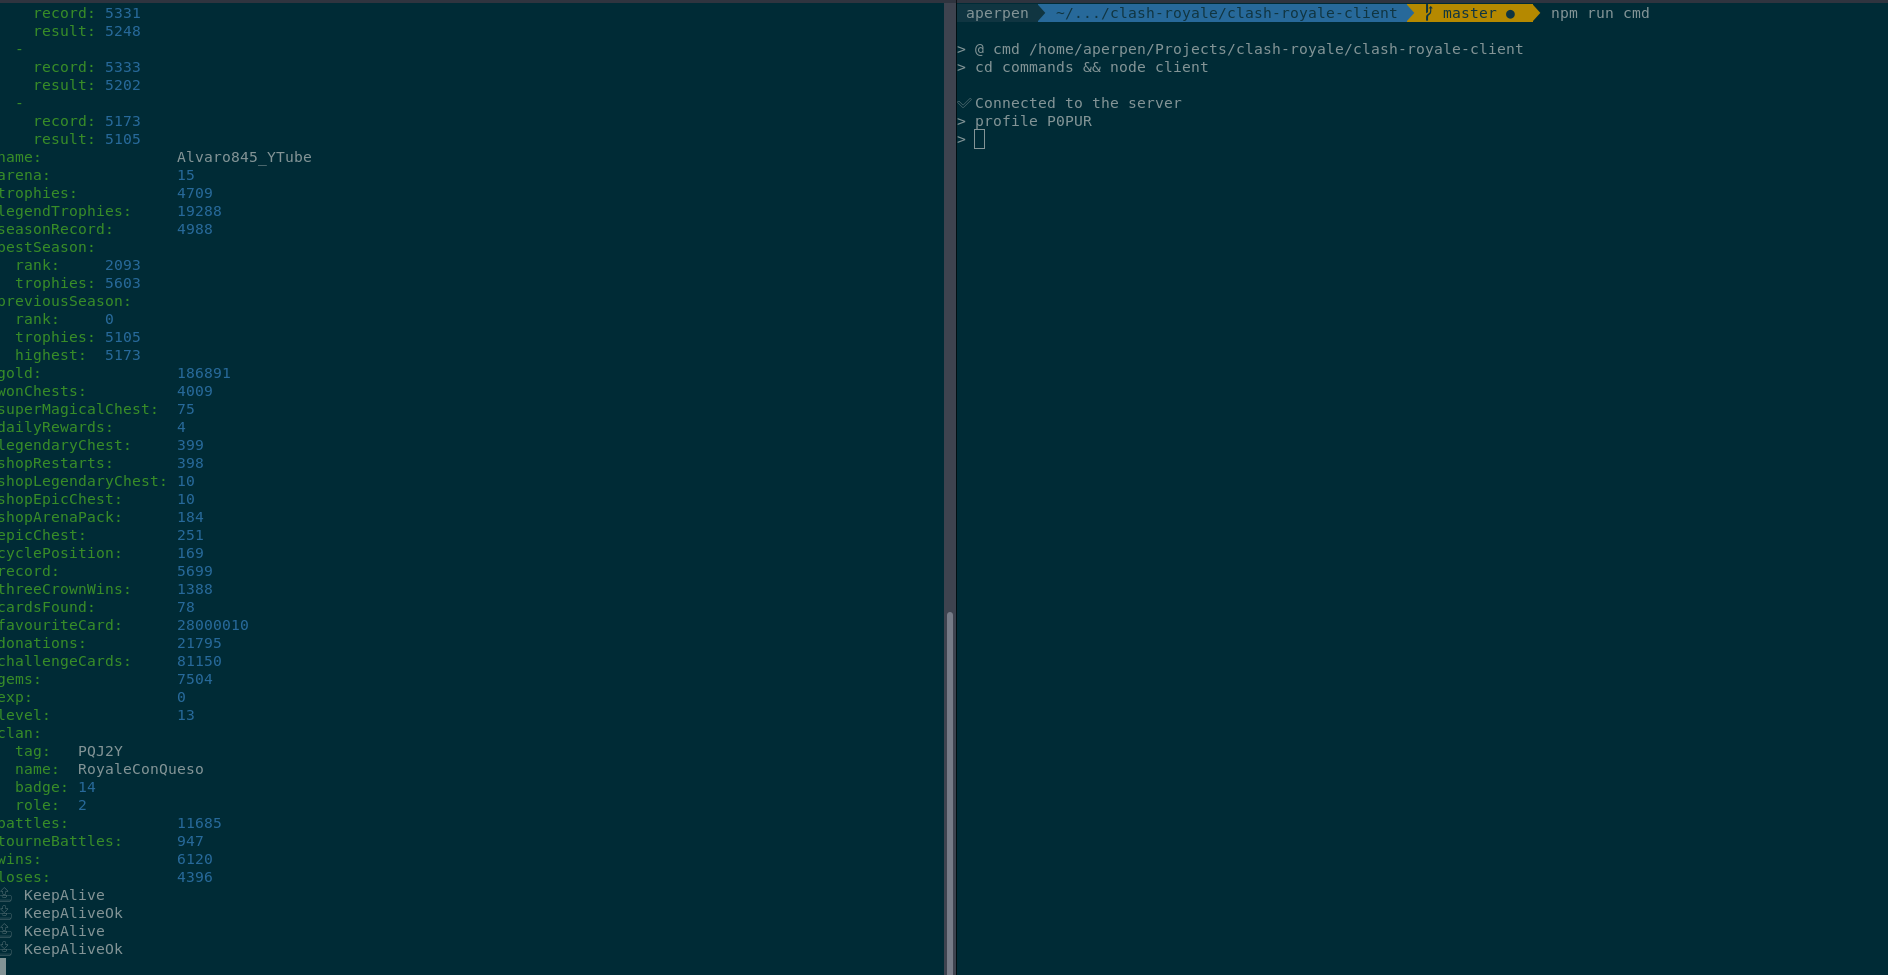
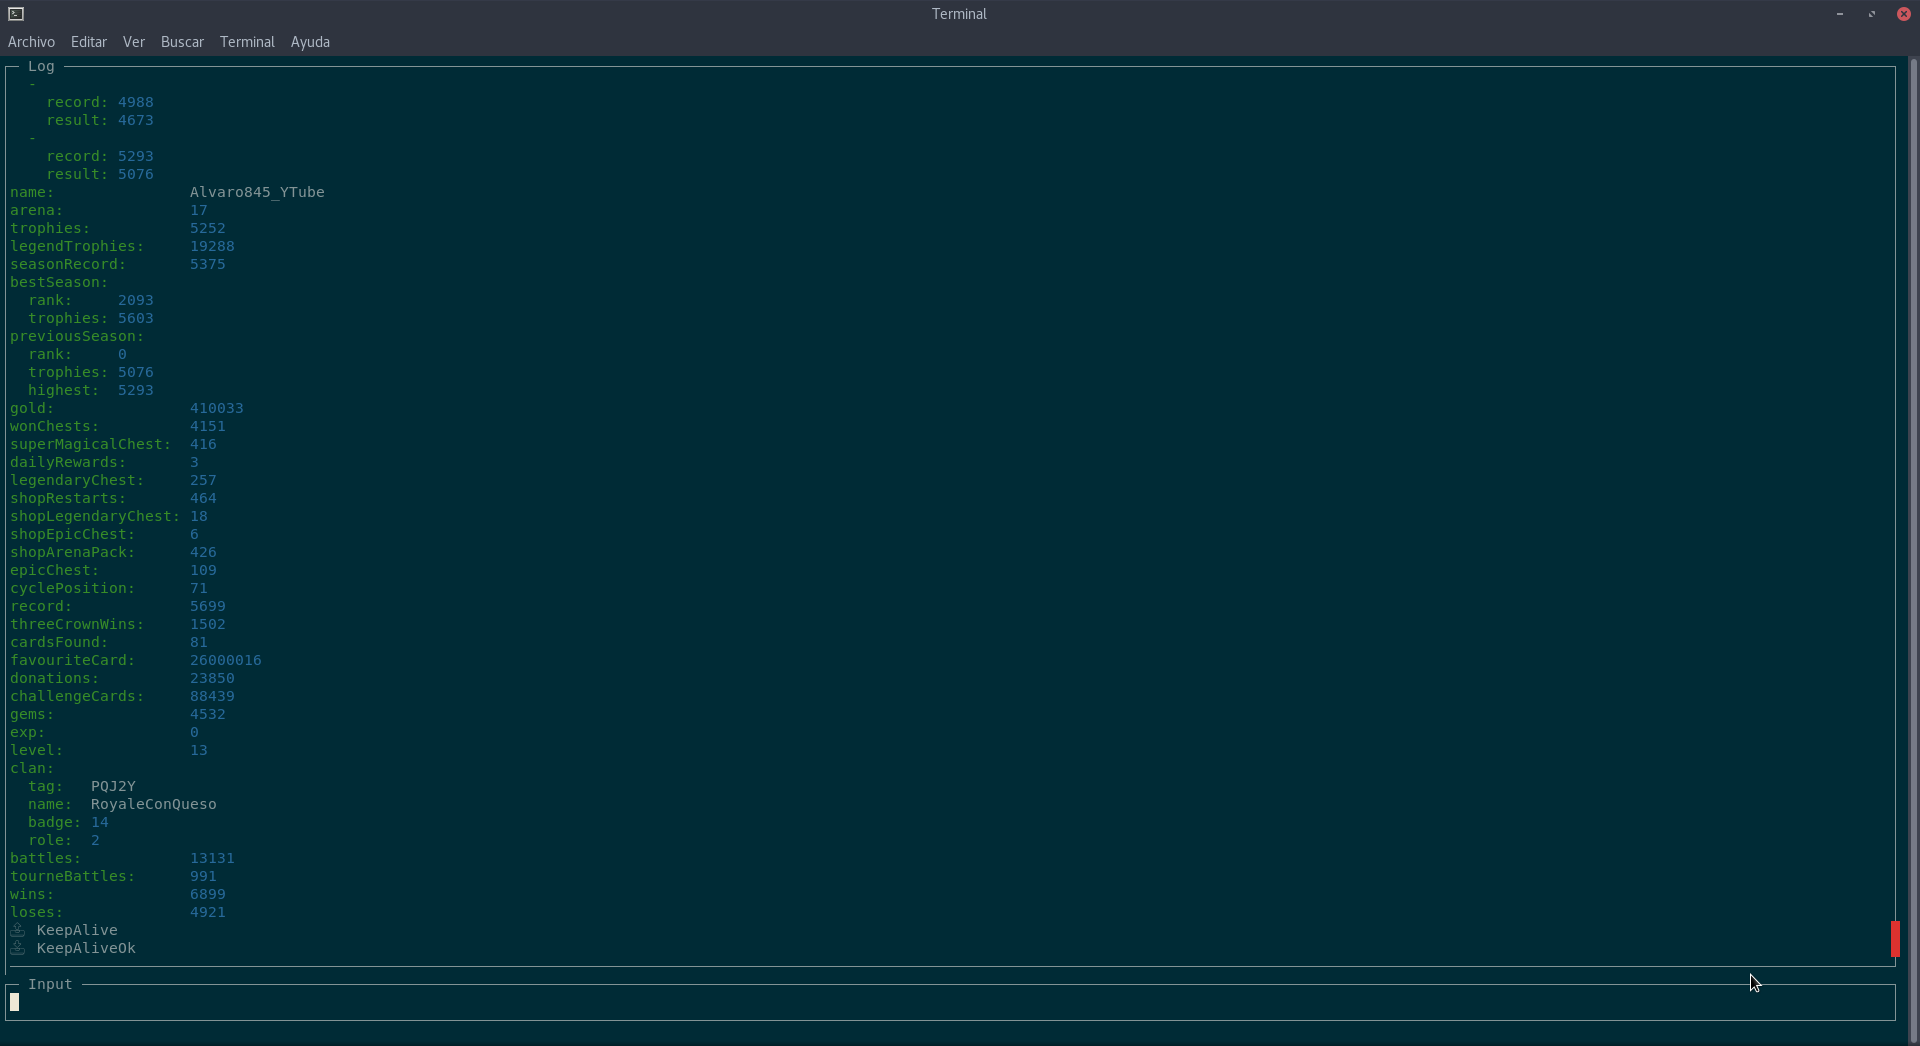
UI, Merge cmd+client

diff --git a/utils/console.js b/utils/console.js
@@ -1,0 +1,59 @@
+const Blessed = require('blessed')
+const runCmd = require('../commands/index').run
+
+let screen = null
+let output = null
+module.exports.init = () => {
+    screen = Blessed.screen({
+        fullUnicode: true
+    })
+    output = Blessed.log({
+        top: 0,
+        left: 0,
+        height: '100%-3',
+        width: '100%',
+        keys: true,
+        mouse: true,
+        scrollable: true,
+        scrollbar: {
+            ch: ' ',
+            bg: 'red'
+        },
+        border: {
+            type: 'line'
+        },
+        label: ' Log '
+    })
+    let input = Blessed.textbox({
+        bottom: 0,
+        left: 0,
+        height: 3,
+        width: '100%',
+        keys: true,
+        mouse: true,
+        inputOnFocus: true,
+        style: {
+            fg: 'white',
+        },
+        border: {
+            type: 'line'
+        },
+        label: ' Input '
+    })
+
+    screen.key(['escape', 'C-c'], () => process.exit(0))
+    screen.append(output)
+    screen.append(input)
+
+    input.on('submit', text => {
+        runCmd(text)
+        input.clearValue()
+        input.focus()
+    })
+
+    input.focus()
+}
+
+module.exports.log = text => output.log(text)
+
[1 lines of base64/hex data omitted]

diff --git a/packets/processor.js b/packets/processor.js
@@ -1,5 +1,6 @@
 const prettyjson = require('prettyjson')
 const crypto = require('../crypto/crypto')
+const log = require('../utils/console').log
 
 function Processor(server) {
     this.server = server
@@ -13,21 +14,20 @@ Processor.prototype.send = function (code, payload) {
     header.writeUInt16BE(0, 5)
 
     this.server.write(Buffer.concat([header, Buffer.from(crypted)]))
-    console.log('📤 ' + (packets[code] && packets[code].name ? packets[code].name : code))
+    log('📤 ' + (packets[code] && packets[code].name ? packets[code].name : code))
 }
 
 Processor.prototype.parse = (code, buffer) => {
-    console.log('📥 ' + (packets[code] && packets[code].name ? packets[code].name : code))
-    console.log(Buffer.from(buffer).toString('hex'))
+    log('📥 ' + (packets[code] && packets[code].name ? packets[code].name : code))
     if (packets[code]) {
         if (typeof packets[code].decode == 'function') {
             try {
                 let data = packets[code].decode(buffer)
-                console.log(prettyjson.render(data))
+                log(prettyjson.render(data))
                 if (typeof packets[code].callback == 'function') packets[code].callback(data)
             } catch (e) {
-                console.error('✖ Error decoding ' + code + ' packet')
-                console.log(e)
+                log('✖ Error decoding ' + code + ' packet')
+                log(e)
             }
         } else if (typeof packets[code].callback == 'function') packets[code].callback()
     }

diff --git a/commands/index.js b/commands/index.js
@@ -1,27 +1,17 @@
 const net = require('net')
 const fs = require('fs')
-const exec = require('child_process').exec
-commands = {}
+const screen = require('../utils/console')
+let commands = {}
 
 fs.readdir('./commands/src', (err, files) => {
     files.forEach(file => {
-        commands[file.slice(0, -3)] =  require(`./src/${file}`)
-    })
-
-    console.log('Loaded ' + Object.keys(packets).length + ' packets')
-})
-
-var server = net.createServer()
-
-server.on('connection', client => {
-    console.log('[SERVER] New client connected to the commands server')
-    client.on('data', input => {
-        let command = input.toString().split(' ').map(t => t.trim())
-        if(commands[command[0]]) commands[command.shift()].run(command, client)
+        module.exports.commands[file.slice(0, -3)] = require(`./src/${file}`)
     })
 })
 
-server.listen(1339, '0.0.0.0', () => {
-    console.log('Commands server set up')
-    // exec('gnome-terminal --working-directory=$(pwd)/commands -- node client.js')
-})
+module.exports.commands = {}
+
+module.exports.run = input => {
+    let command = input.toString().split(' ').map(t => t.trim())
+    if (module.exports.commands[command[0]]) module.exports.commands[command.shift()].run(command)
+}

diff --git a/commands/src/help.js b/commands/src/help.js
@@ -1,5 +1,8 @@
-module.exports.run = (args, client) => {
+const log = require('../../utils/console').log
+
+module.exports.run = (args) => {
     let help = ''
+    let commands = require('../index').commands
     if (args[0]) {
         if (commands[args[0]]) {
             if (commands[args[0]].help) {
@@ -22,10 +25,7 @@ module.exports.run = (args, client) => {
         help = 'Avaiable commands:\n' + Object.keys(commands).join(', ')
         help += '\n\nFor custom command help type: help command\nExample: help top'
     }
-    client.write(JSON.stringify({
-        code: 1,
-        text: help
-    }))
+    log(help)
 }
 
 module.exports.help = {

diff --git a/packets/server/LoginFailed/index.js b/packets/server/LoginFailed/index.js
@@ -1,5 +1,7 @@
 const ByteBuffer = require('../../../utils/bytebuffer-sc')
 const fs = require('fs')
+const log = require('../../../utils/console').log
+
 module.exports.code = 20103
 
 module.exports.decode = (payload) => {
@@ -25,6 +27,6 @@ module.exports.callback = async data => {
   if (data.code === 7) {
     config.resourceSha = data.sha
     await fs.writeFileSync('./config.js', 'module.exports = ' + JSON.stringify(config, null, 3))
-    console.log('Resource SHA updated after maintenance. Restart the client to log in.')
+    log('Resource SHA updated after maintenance. Restart the client to log in.')
   }
 }

diff --git a/index.js b/index.js
@@ -5,6 +5,7 @@ const Packetizer = require('./utils/packetizer')
 const Processor = require('./packets/processor')
 const crypto = require('./crypto/crypto')
 const tag2id = require('./utils/tag2id')
+const screen = require('./utils/console')
 
 var packetizer = new Packetizer()
 var server = new net.Socket()
@@ -34,7 +35,9 @@ fs.readdir('./packets/client', (err, files) => {
     })
 })
 
+screen.banner()
 selectAccount().then(acc => {
+    screen.init()
     acc.id = tag2id.tag2id(acc.tag)
     config.account = acc
 

diff --git a/packets/server/AccountInfo/index.js b/packets/server/AccountInfo/index.js
@@ -1,4 +1,5 @@
 const ByteBuffer = require('../../../utils/bytebuffer-sc')
+const log = require('../../../utils/console').log
 
 module.exports.code = 28502
 
@@ -22,5 +23,5 @@ module.exports.decode = payload => {
 module.exports.callback = data => {
   if(data.unlockedCards)
     config.checksum = ((data.unlockedCards - 8) << 16) | data.checksumSeed
-  else console.log('[WARN] Failed to calculate checksum, some commands won\'t work')
+  else log('[WARN] Failed to calculate checksum, some commands won\'t work')
 }

diff --git a/packets/server/TournamentInfo/index.js b/packets/server/TournamentInfo/index.js
@@ -71,7 +71,6 @@ module.exports.decode = payload => {
     json.started = payload.readByte()
     json.unk3 = payload.readByte()
     json.unk4 = payload.readRrsInt32()
-    //json.unk5 = payload.readByte()
 
     return json
 }

diff --git a/packets/client/ExecuteCommand/index.js b/packets/client/ExecuteCommand/index.js
@@ -51,5 +51,4 @@ commands.joinClan = (buf, params) => {
     buf.writeRrsInt32(config.account.id.low)
 
     buf.writeIString('')
-    console.log(buf.buffer.slice(0, buf.offset).toString('hex'))
 }

diff --git a/commands/src/exit.js b/commands/src/exit.js
@@ -1,0 +1,6 @@
+module.exports.run = () => process.exit()
+
+module.exports.help = {
+    'usage': 'exit',
+    'description': 'Quit client'
+}

diff --git a/README.md b/README.md
@@ -21,13 +21,8 @@ This is a basic client. Now is your turn. Modify the client and add functions to
 ### Running the client  
 ```npm run client```
 
-Client has a built-in server that allows to controll it through commands:
-### Running commands service
-- Run cmd client: ```npm run cmd```
+### Commands
 - Type 'help' to get started
-
-Note that you must start client before run the commands service
-
 
 ## Installation
 - Run `npm install`
